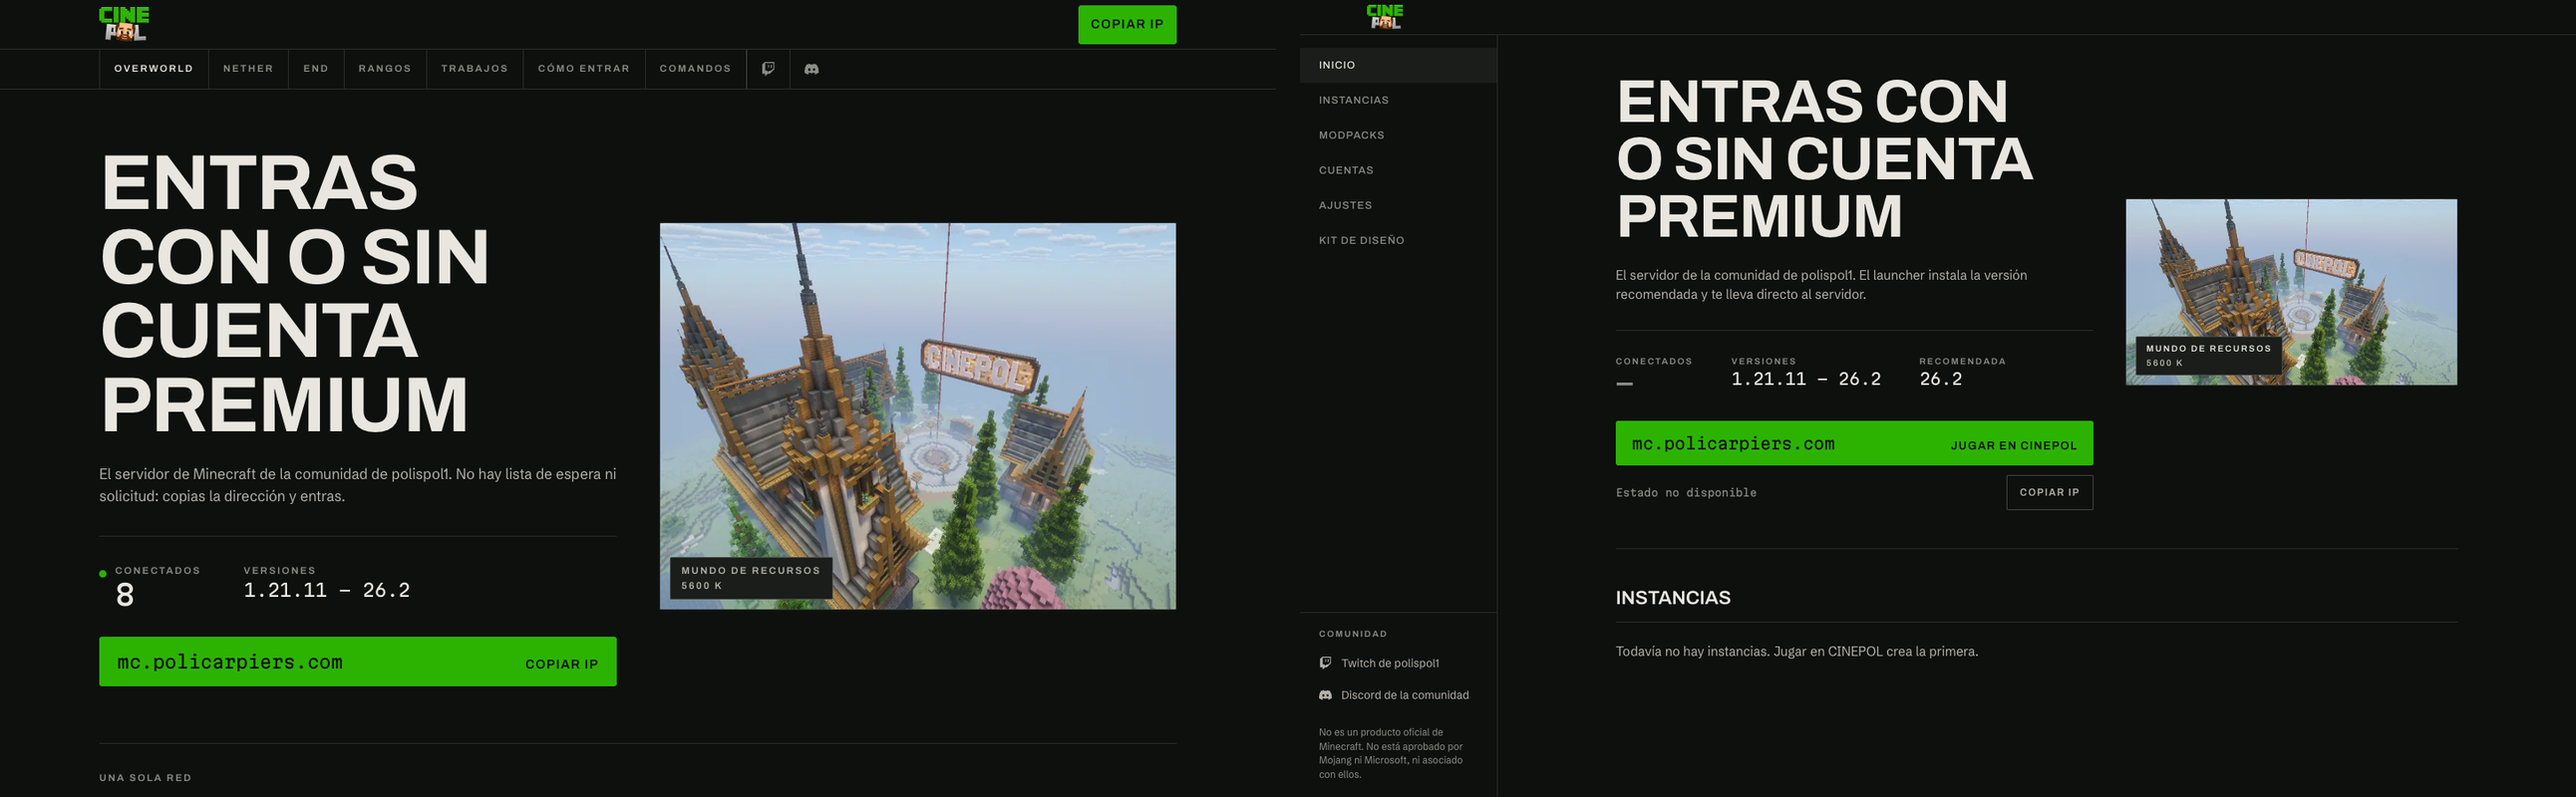
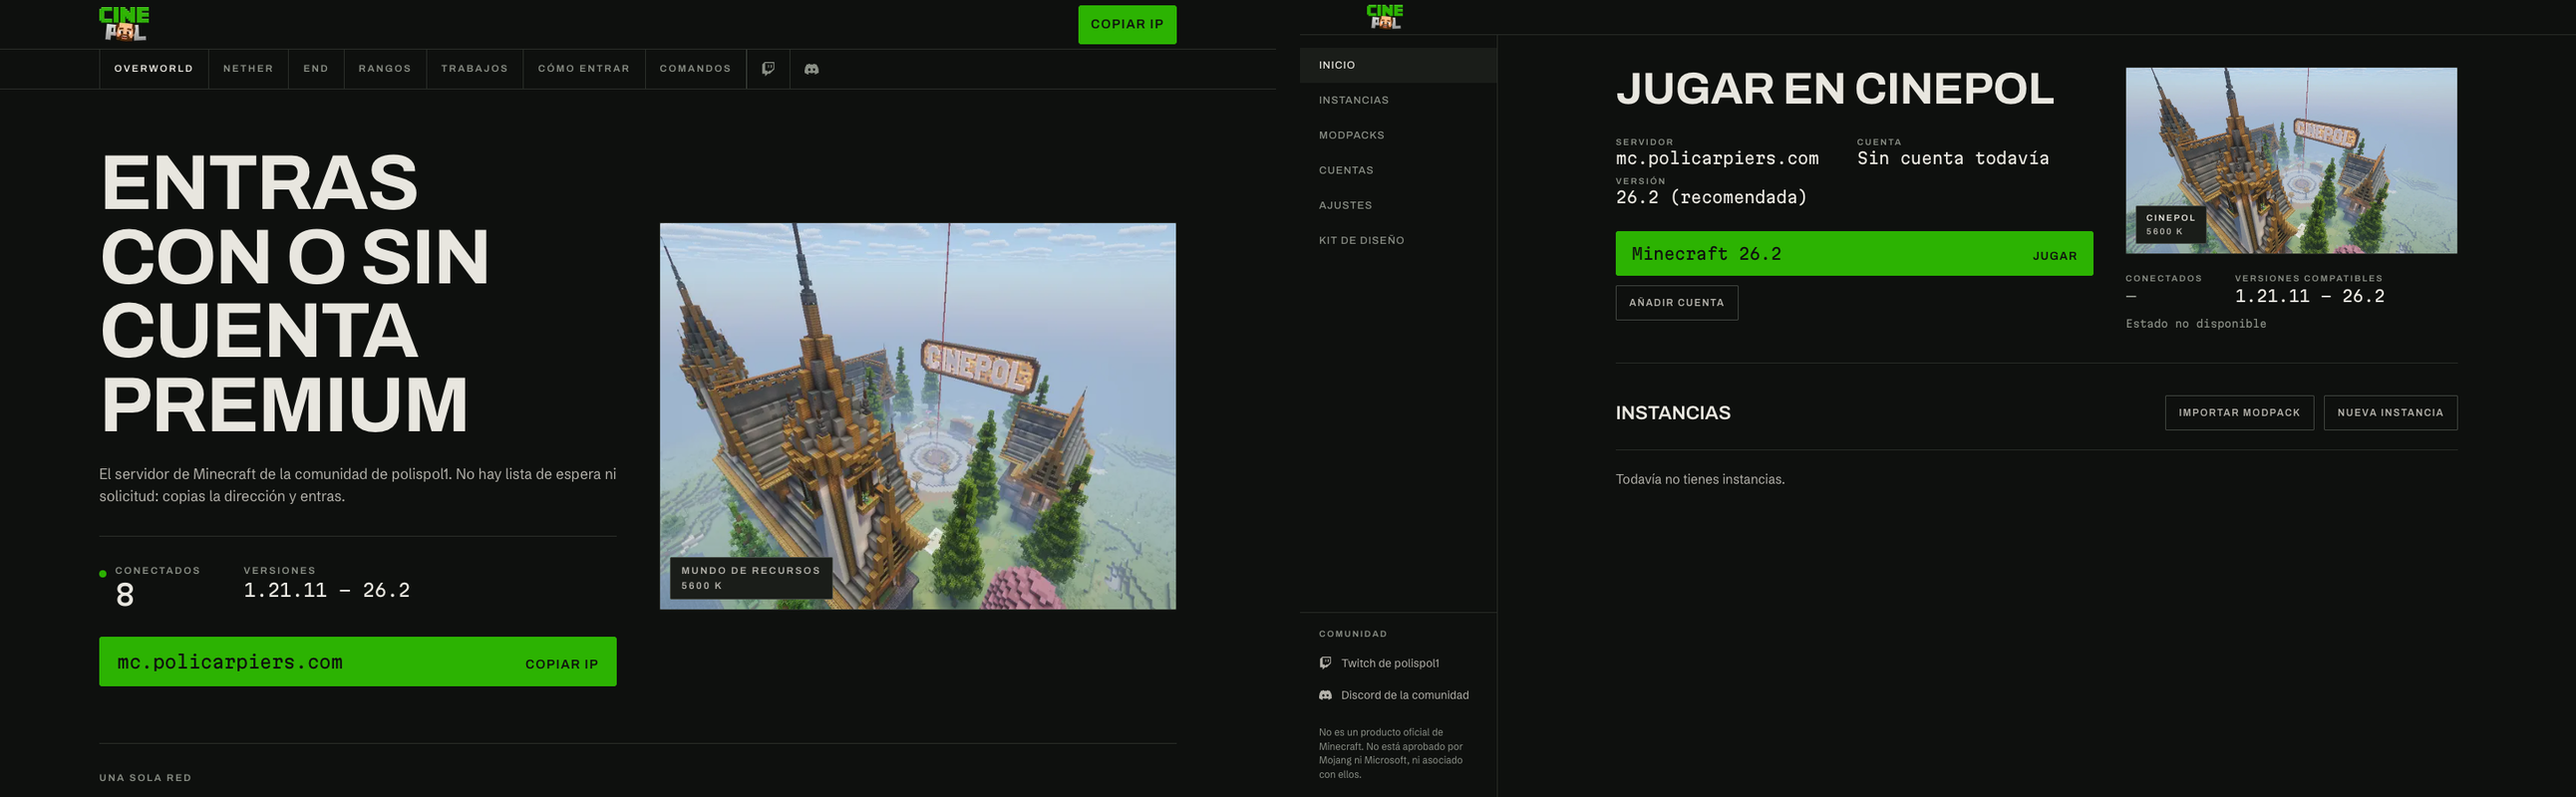
refactor(ui): make the home a launcher view
Replace the website hero copy (headline, pitch, Copy IP) with launcher content
in the same style: a quick-play panel with server, recommended version and
active account, the CINEPOL banner with live readouts, and the instances band
with its actions.

diff --git a/src/features/home/HomePage.tsx b/src/features/home/HomePage.tsx
@@ -1,64 +1,93 @@
-import { type CSSProperties, useState } from "react";
+import { Link } from "@tanstack/react-router";
 import { useTranslation } from "react-i18next";
-import resourceWorld from "../../assets/worlds/cinepol-recursos.webp";
-import { Button } from "../../components/ui/Button";
+import serverBanner from "../../assets/worlds/cinepol-recursos.webp";
 import { Readout } from "../../components/ui/Readout";
 import { SignalControl } from "../../components/ui/SignalControl";
+import { SpecSheet } from "../../components/ui/SpecSheet";
 import { type ServerStatus, StatusLamp } from "../../components/ui/StatusLamp";
 import { WorldFrame } from "../../components/ui/WorldFrame";
 import { bundledServerConfig, displayAddress } from "../server/serverConfig";
 
-const COPIED_RESET_MS = 2000;
+const plateLink =
+  "plate-lg inline-flex h-11 items-center rounded-plate border border-hairline-lit px-4 text-silk-dim no-underline transition-colors duration-[160ms] ease-settle hover:border-engrave hover:text-silk";
 
 export interface HomePageProps {
   /** Live status of the server. The Server List Ping arrives in Milestone 6. */
   status?: ServerStatus;
   onlinePlayers?: number | null;
+  /** Display name of the active account, if any (Milestone 7). */
+  accountName?: string | null;
 }
 
-export function HomePage({ status = "unavailable", onlinePlayers = null }: HomePageProps) {
+/** Launcher home: quick play on CINEPOL, then the player's instances. */
+export function HomePage({
+  status = "unavailable",
+  onlinePlayers = null,
+  accountName = null,
+}: HomePageProps) {
   const { t } = useTranslation();
-  const [copied, setCopied] = useState(false);
   const config = bundledServerConfig;
-  const address = displayAddress(config);
-
-  async function copyAddress() {
-    try {
-      await navigator.clipboard.writeText(address);
-      setCopied(true);
-      window.setTimeout(() => setCopied(false), COPIED_RESET_MS);
-    } catch {
-      setCopied(false);
-    }
-  }
-
-  const statusNote =
-    status === "online" ? null : t(`home.status.${status}` as "home.status.unavailable");
+  const { recommended } = config.versions;
 
   return (
     <div className="@container mx-auto flex max-w-[1120px] flex-col px-gutter-lg">
-      <section className="grid grid-cols-12 items-center gap-x-10 gap-y-10 border-b border-hairline py-12">
-        <div className="col-span-12 flex flex-col @3xl:col-span-7 @6xl:col-span-6">
-          <h1
-            className="display-xl m-0 text-silk"
-            data-enter
-            style={{ "--enter-index": 1 } as CSSProperties}
-          >
+      <section
+        aria-labelledby="quick-play-title"
+        className="grid grid-cols-12 items-start gap-x-10 gap-y-8 border-b border-hairline py-10"
+      >
+        <div className="col-span-12 flex flex-col @3xl:col-span-7">
+          <h1 id="quick-play-title" className="display-lg m-0 text-silk">
             {t("home.title")}
           </h1>
-          <p className="measure mt-6 mb-0 text-silk-dim">{t("home.lead")}</p>
 
-          <hr data-enter-rule className="my-8 h-px w-full border-0 bg-hairline" />
+          <div className="mt-8 flex flex-wrap items-start gap-x-12 gap-y-6">
+            <SpecSheet
+              rows={[
+                { label: t("home.spec.server"), value: displayAddress(config) },
+                {
+                  label: t("home.spec.version"),
+                  value: t("home.recommended", { version: recommended }),
+                },
+              ]}
+            />
+            <div className="flex flex-col gap-3">
+              <SpecSheet
+                rows={[
+                  { label: t("home.spec.account"), value: accountName ?? t("home.noAccount") },
+                ]}
+              />
+            </div>
+          </div>
 
+          <div data-enter-control className="mt-8 flex flex-col gap-3">
+            <SignalControl
+              label={t("home.play")}
+              detail={t("home.gameVersion", { version: recommended })}
+            />
+            {accountName ? null : (
+              <Link to="/accounts" className={`${plateLink} self-start`}>
+                {t("home.addAccount")}
+              </Link>
+            )}
+          </div>
+        </div>
+
+        <div className="col-span-12 flex flex-col gap-6 @3xl:col-span-5">
+          <WorldFrame
+            world="overworld"
+            src={serverBanner}
+            caption={t("home.bannerCaption")}
+            className="hidden @3xl:block"
+          />
           <div
             data-live-status
             data-status={status}
-            className="flex flex-wrap items-start gap-x-12 gap-y-6"
+            className="flex flex-wrap items-start gap-x-10 gap-y-4"
           >
             <Readout
               unit={t("home.readouts.online")}
               value={onlinePlayers === null ? null : String(onlinePlayers)}
-              size="xl"
+              size="md"
               lead={<StatusLamp status={status} />}
             />
             <Readout
@@ -66,37 +95,30 @@ export function HomePage({ status = "unavailable", onlinePlayers = null }: HomeP
               value={`${config.versions.min} – ${config.versions.max}`}
               size="md"
             />
-            <Readout
-              unit={t("home.readouts.recommended")}
-              value={config.versions.recommended}
-              size="md"
-            />
           </div>
-
-          <div data-enter-control className="mt-8 flex flex-col gap-3">
-            <SignalControl label={t("home.play")} detail={address} />
-            <div className="flex items-center justify-between gap-4">
-              <span data-readout className="readout-sm text-engrave">
-                {statusNote}
-              </span>
-              <Button onClick={() => void copyAddress()}>
-                {copied ? t("home.copied") : t("home.copyAddress")}
-              </Button>
-            </div>
-            <span className="sr-only" aria-live="polite">
-              {copied ? t("home.copiedAnnouncement") : ""}
+          {status === "online" ? null : (
+            <span data-readout className="readout-sm -mt-2 text-engrave">
+              {t(`home.status.${status}` as "home.status.unavailable")}
             </span>
-          </div>
-        </div>
-
-        <div className="col-span-12 @3xl:col-span-5 @6xl:col-span-6">
-          <WorldFrame world="overworld" src={resourceWorld} caption={t("home.worldCaption")} />
+          )}
         </div>
       </section>
 
-      <section className="py-12">
-        <h2 className="display-md m-0 text-silk">{t("home.instances.title")}</h2>
-        <p className="mt-4 mb-0 border-t border-hairline pt-6 text-silk-dim">
+      <section aria-labelledby="instances-title" className="py-10">
+        <div className="flex flex-wrap items-center justify-between gap-4">
+          <h2 id="instances-title" className="display-md m-0 text-silk">
+            {t("home.instances.title")}
+          </h2>
+          <div className="flex gap-3">
+            <Link to="/modpacks" className={plateLink}>
+              {t("home.instances.import")}
+            </Link>
+            <Link to="/instances" className={plateLink}>
+              {t("home.instances.create")}
+            </Link>
+          </div>
+        </div>
+        <p className="mt-6 mb-0 border-t border-hairline pt-6 text-silk-dim">
           {t("home.instances.empty")}
         </p>
       </section>

diff --git a/src/features/home/HomePage.test.tsx b/src/features/home/HomePage.test.tsx
@@ -1,33 +1,58 @@
+import {
+  createMemoryHistory,
+  createRootRoute,
+  createRouter,
+  RouterProvider,
+} from "@tanstack/react-router";
 import { render, screen } from "@testing-library/react";
 import { describe, expect, it } from "vitest";
 import serverConfig from "../../../config/server-config.json";
 import esCommon from "../../i18n/locales/es/common.json";
-import { HomePage } from "./HomePage";
+import { HomePage, type HomePageProps } from "./HomePage";
+
+function renderHome(props: HomePageProps = {}) {
+  const rootRoute = createRootRoute({ component: () => <HomePage {...props} /> });
+  const router = createRouter({ routeTree: rootRoute, history: createMemoryHistory() });
+  return render(<RouterProvider router={router} />);
+}
 
 describe("HomePage", () => {
-  it("offers the play control with the server address from config", () => {
-    render(<HomePage />);
-    const play = screen.getByRole("button", { name: new RegExp(esCommon.home.play) });
-    expect(play).toHaveTextContent(serverConfig.server.address);
+  it("offers the play control for the recommended version from config", async () => {
+    renderHome();
+    const play = await screen.findByRole("button", { name: new RegExp(esCommon.home.play) });
+    expect(play).toHaveTextContent(`Minecraft ${serverConfig.versions.recommended}`);
   });
 
-  it("reads the supported and recommended versions from config", () => {
-    render(<HomePage />);
-    const { min, max, recommended } = serverConfig.versions;
+  it("shows the server address and the supported range from config", async () => {
+    renderHome();
+    const { min, max } = serverConfig.versions;
+    expect(await screen.findByText(serverConfig.server.address)).toBeInTheDocument();
     expect(screen.getByText(`${min} – ${max}`)).toBeInTheDocument();
-    expect(screen.getByText(recommended)).toBeInTheDocument();
   });
 
-  it("shows an em dash and the status note when the status is unknown", () => {
-    const { container } = render(<HomePage status="unavailable" />);
-    expect(screen.getByText("—")).toBeInTheDocument();
-    expect(screen.getByText(esCommon.home.status.unavailable)).toBeInTheDocument();
+  it("asks for an account when none is active", async () => {
+    renderHome();
+    expect(await screen.findByRole("link", { name: esCommon.home.addAccount })).toHaveAttribute(
+      "href",
+      "/accounts",
+    );
+  });
+
+  it("shows the active account instead of the prompt", async () => {
+    renderHome({ accountName: "polispol1" });
+    expect(await screen.findByText("polispol1")).toBeInTheDocument();
+    expect(screen.queryByRole("link", { name: esCommon.home.addAccount })).not.toBeInTheDocument();
+  });
+
+  it("shows the status note and no lamp when the status is unknown", async () => {
+    const { container } = renderHome({ status: "unavailable" });
+    expect(await screen.findByText(esCommon.home.status.unavailable)).toBeInTheDocument();
     expect(container.querySelector("[data-status-dot]")).toBeNull();
   });
 
-  it("lights the lamp and shows the count when the server answers", () => {
-    const { container } = render(<HomePage status="online" onlinePlayers={8} />);
-    expect(screen.getByText("8")).toBeInTheDocument();
+  it("lights the lamp and shows the count when the server answers", async () => {
+    const { container } = renderHome({ status: "online", onlinePlayers: 8 });
+    expect(await screen.findByText("8")).toBeInTheDocument();
     expect(container.querySelector("[data-status-dot]")).not.toBeNull();
   });
 });

diff --git a/src/features/design-kit/DesignKitPage.tsx b/src/features/design-kit/DesignKitPage.tsx
@@ -52,10 +52,10 @@ export function DesignKitPage() {
       <section className="flex flex-col gap-6 border-t border-hairline pt-8">
         <h2 className="display-md m-0">{t("designKit.controls")}</h2>
         <div className="max-w-[520px]">
-          <SignalControl label={t("home.play")} detail="mc.policarpiers.com" />
+          <SignalControl label={t("home.play")} detail="Minecraft 26.2" />
         </div>
         <div className="flex flex-wrap items-center gap-4">
-          <SignalControl label={t("home.copyAddress")} size="compact" />
+          <SignalControl label={t("home.play")} size="compact" />
           <Button>{s("secondary")}</Button>
           <Button disabled>{s("disabled")}</Button>
           <IconButton label={t("chrome.close")}>
@@ -77,7 +77,7 @@ export function DesignKitPage() {
               lead={<StatusLamp status="online" />}
             />
             <Readout unit={t("home.readouts.versions")} value={"1.21.11 – 26.2"} />
-            <Readout unit={t("home.readouts.recommended")} value={null} />
+            <Readout unit={s("playtime")} value={null} />
           </div>
         </div>
         <div className="flex flex-col gap-6">

diff --git a/docs/design/design-system.md b/docs/design/design-system.md
@@ -184,9 +184,11 @@ App shell (`src/app/shell/`):
 - **Sidebar**: text-only section rail, like the website's section strip (no
   decorative icons, D:239-268). Current item: `silk` on `panel`. Community links
   (Twitch, Discord) and the legal disclaimer sit at the bottom.
-- **Home**: the website's hero, translated: headline, lead, engraved rule,
-  readouts (online, versions, recommended), the signal control, and a world
-  capture with its equipment plate. Below it, the instances band.
+- **Home**: a launcher view in the website's style, not the website's content.
+  Quick play on CINEPOL (server, recommended version, active account as a spec
+  sheet; the signal control "Play"), the CINEPOL banner with its equipment plate
+  and the live readouts, then the instances band with its actions. Marketing
+  copy from the website (headlines, pitch, "Copy IP") does not belong here.
 
 ## 7. Iconography and imagery
 
